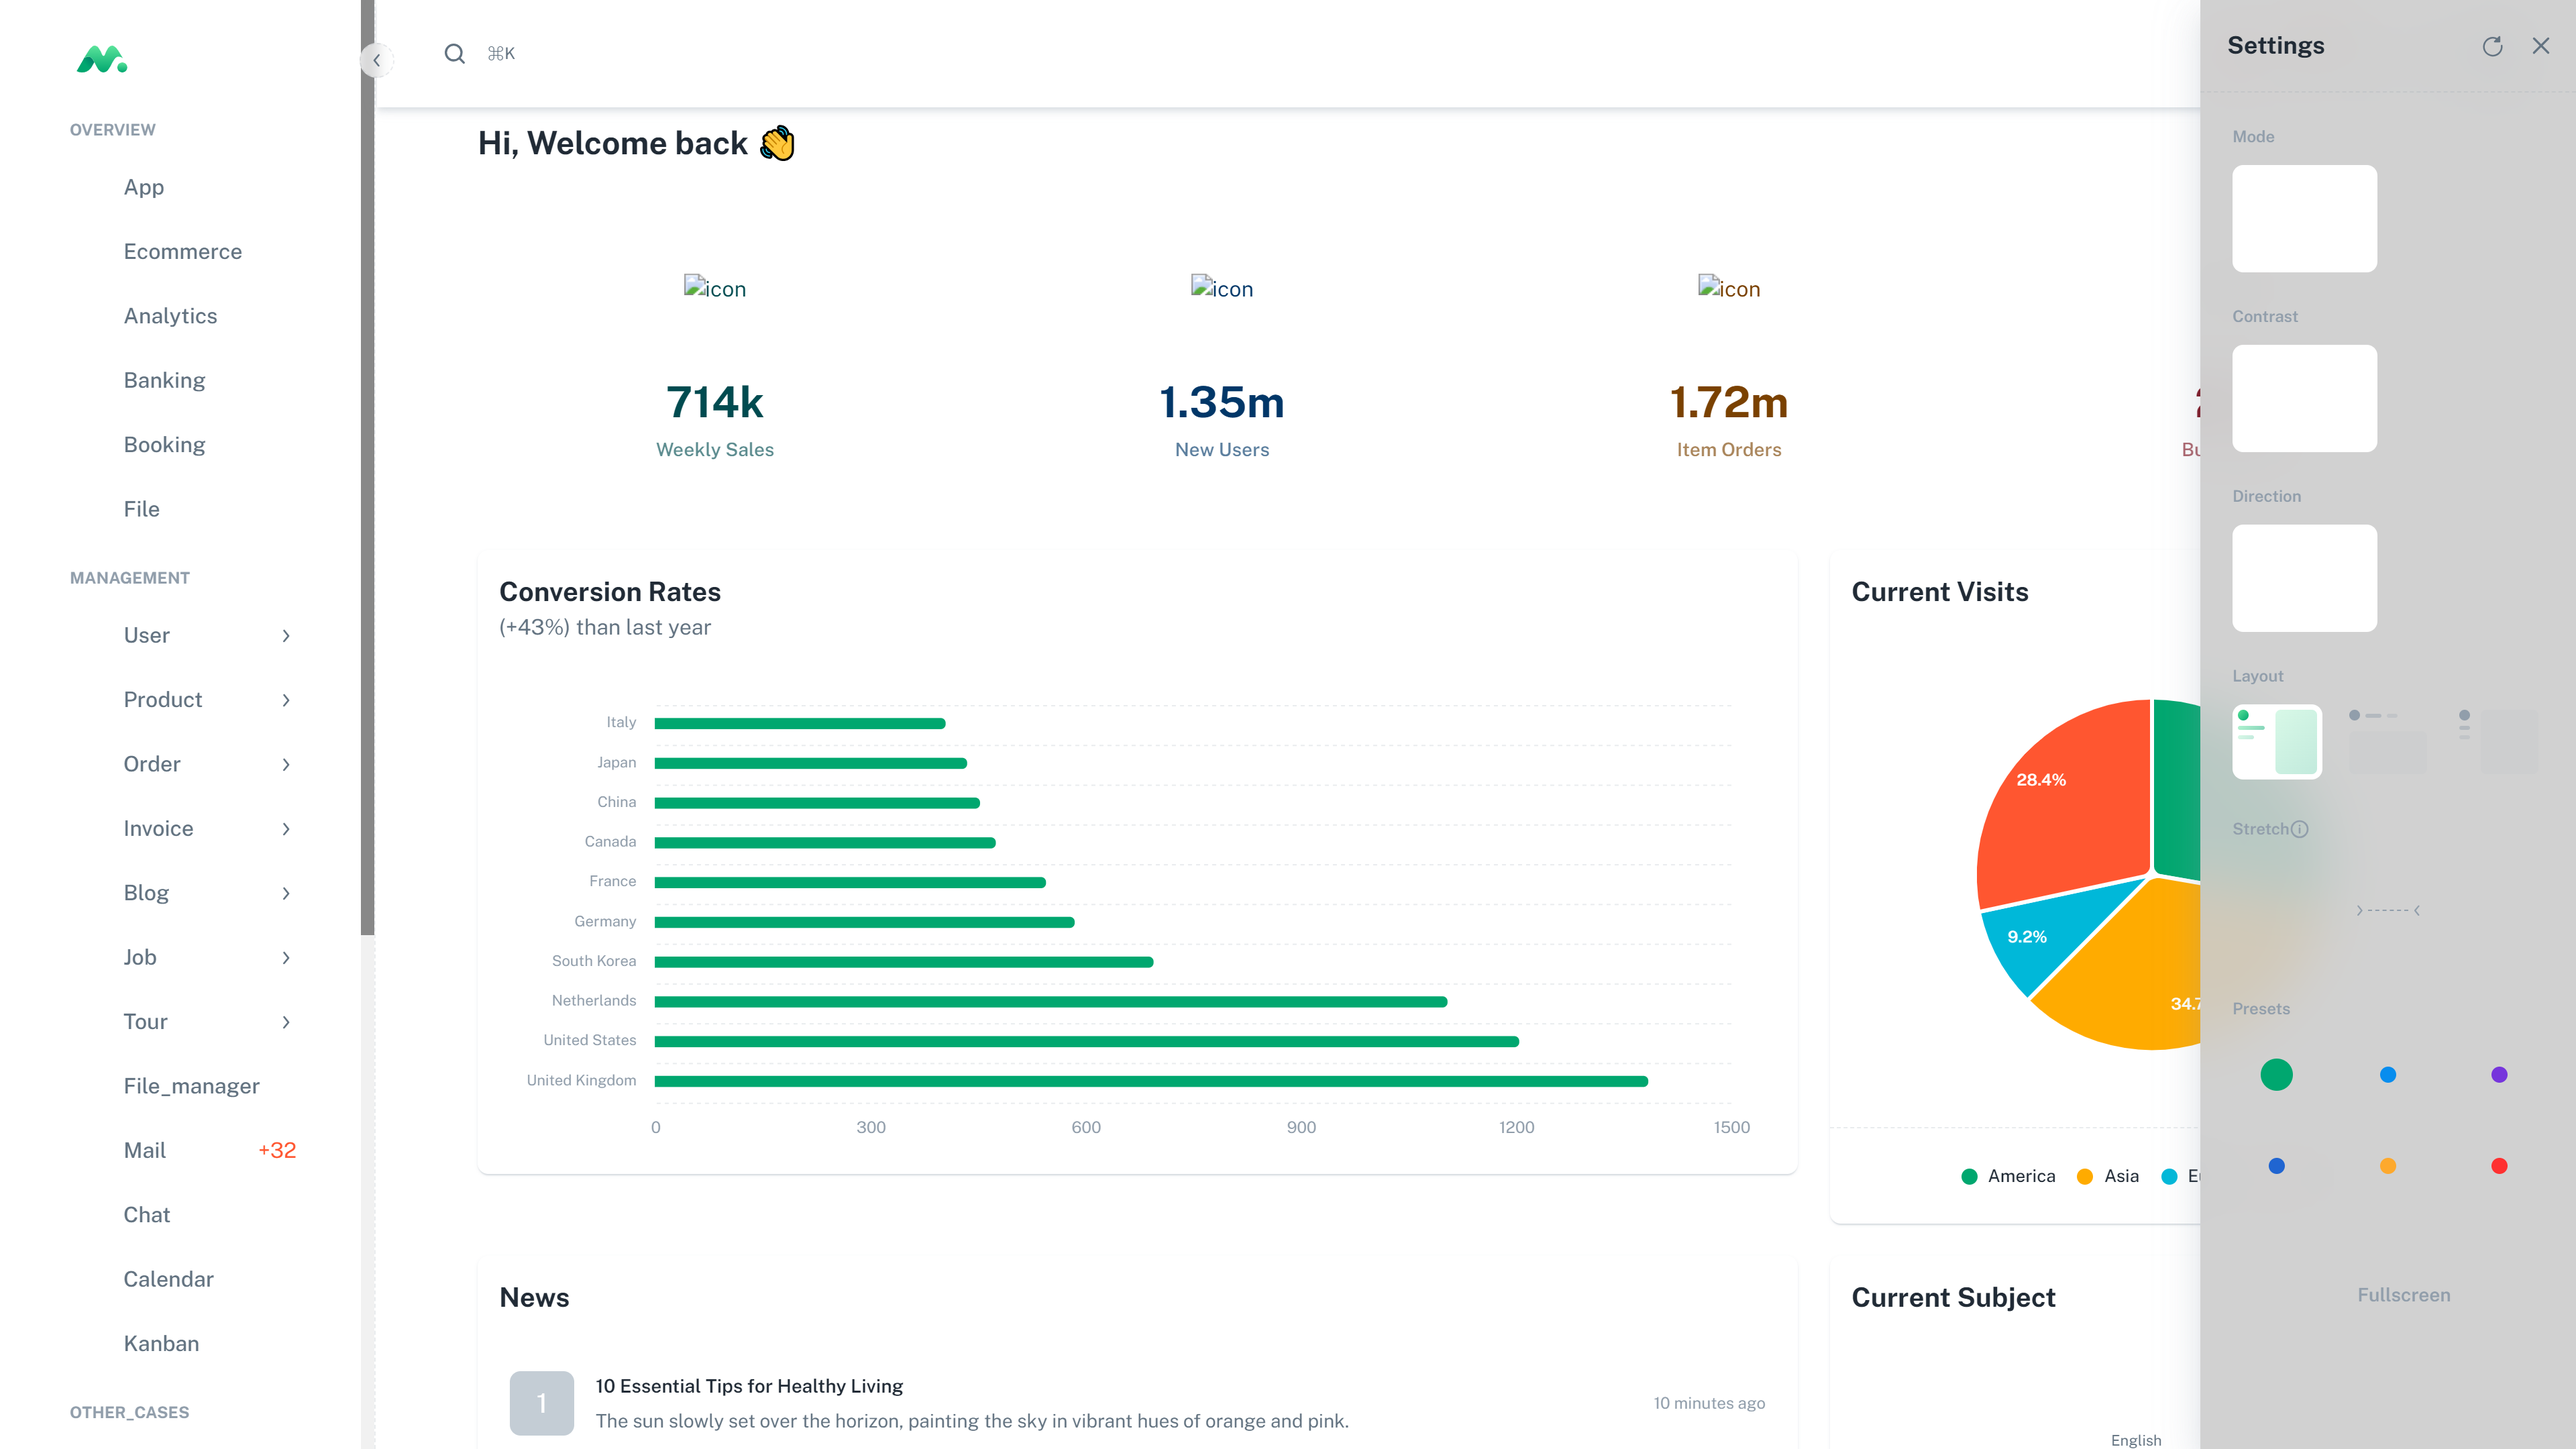
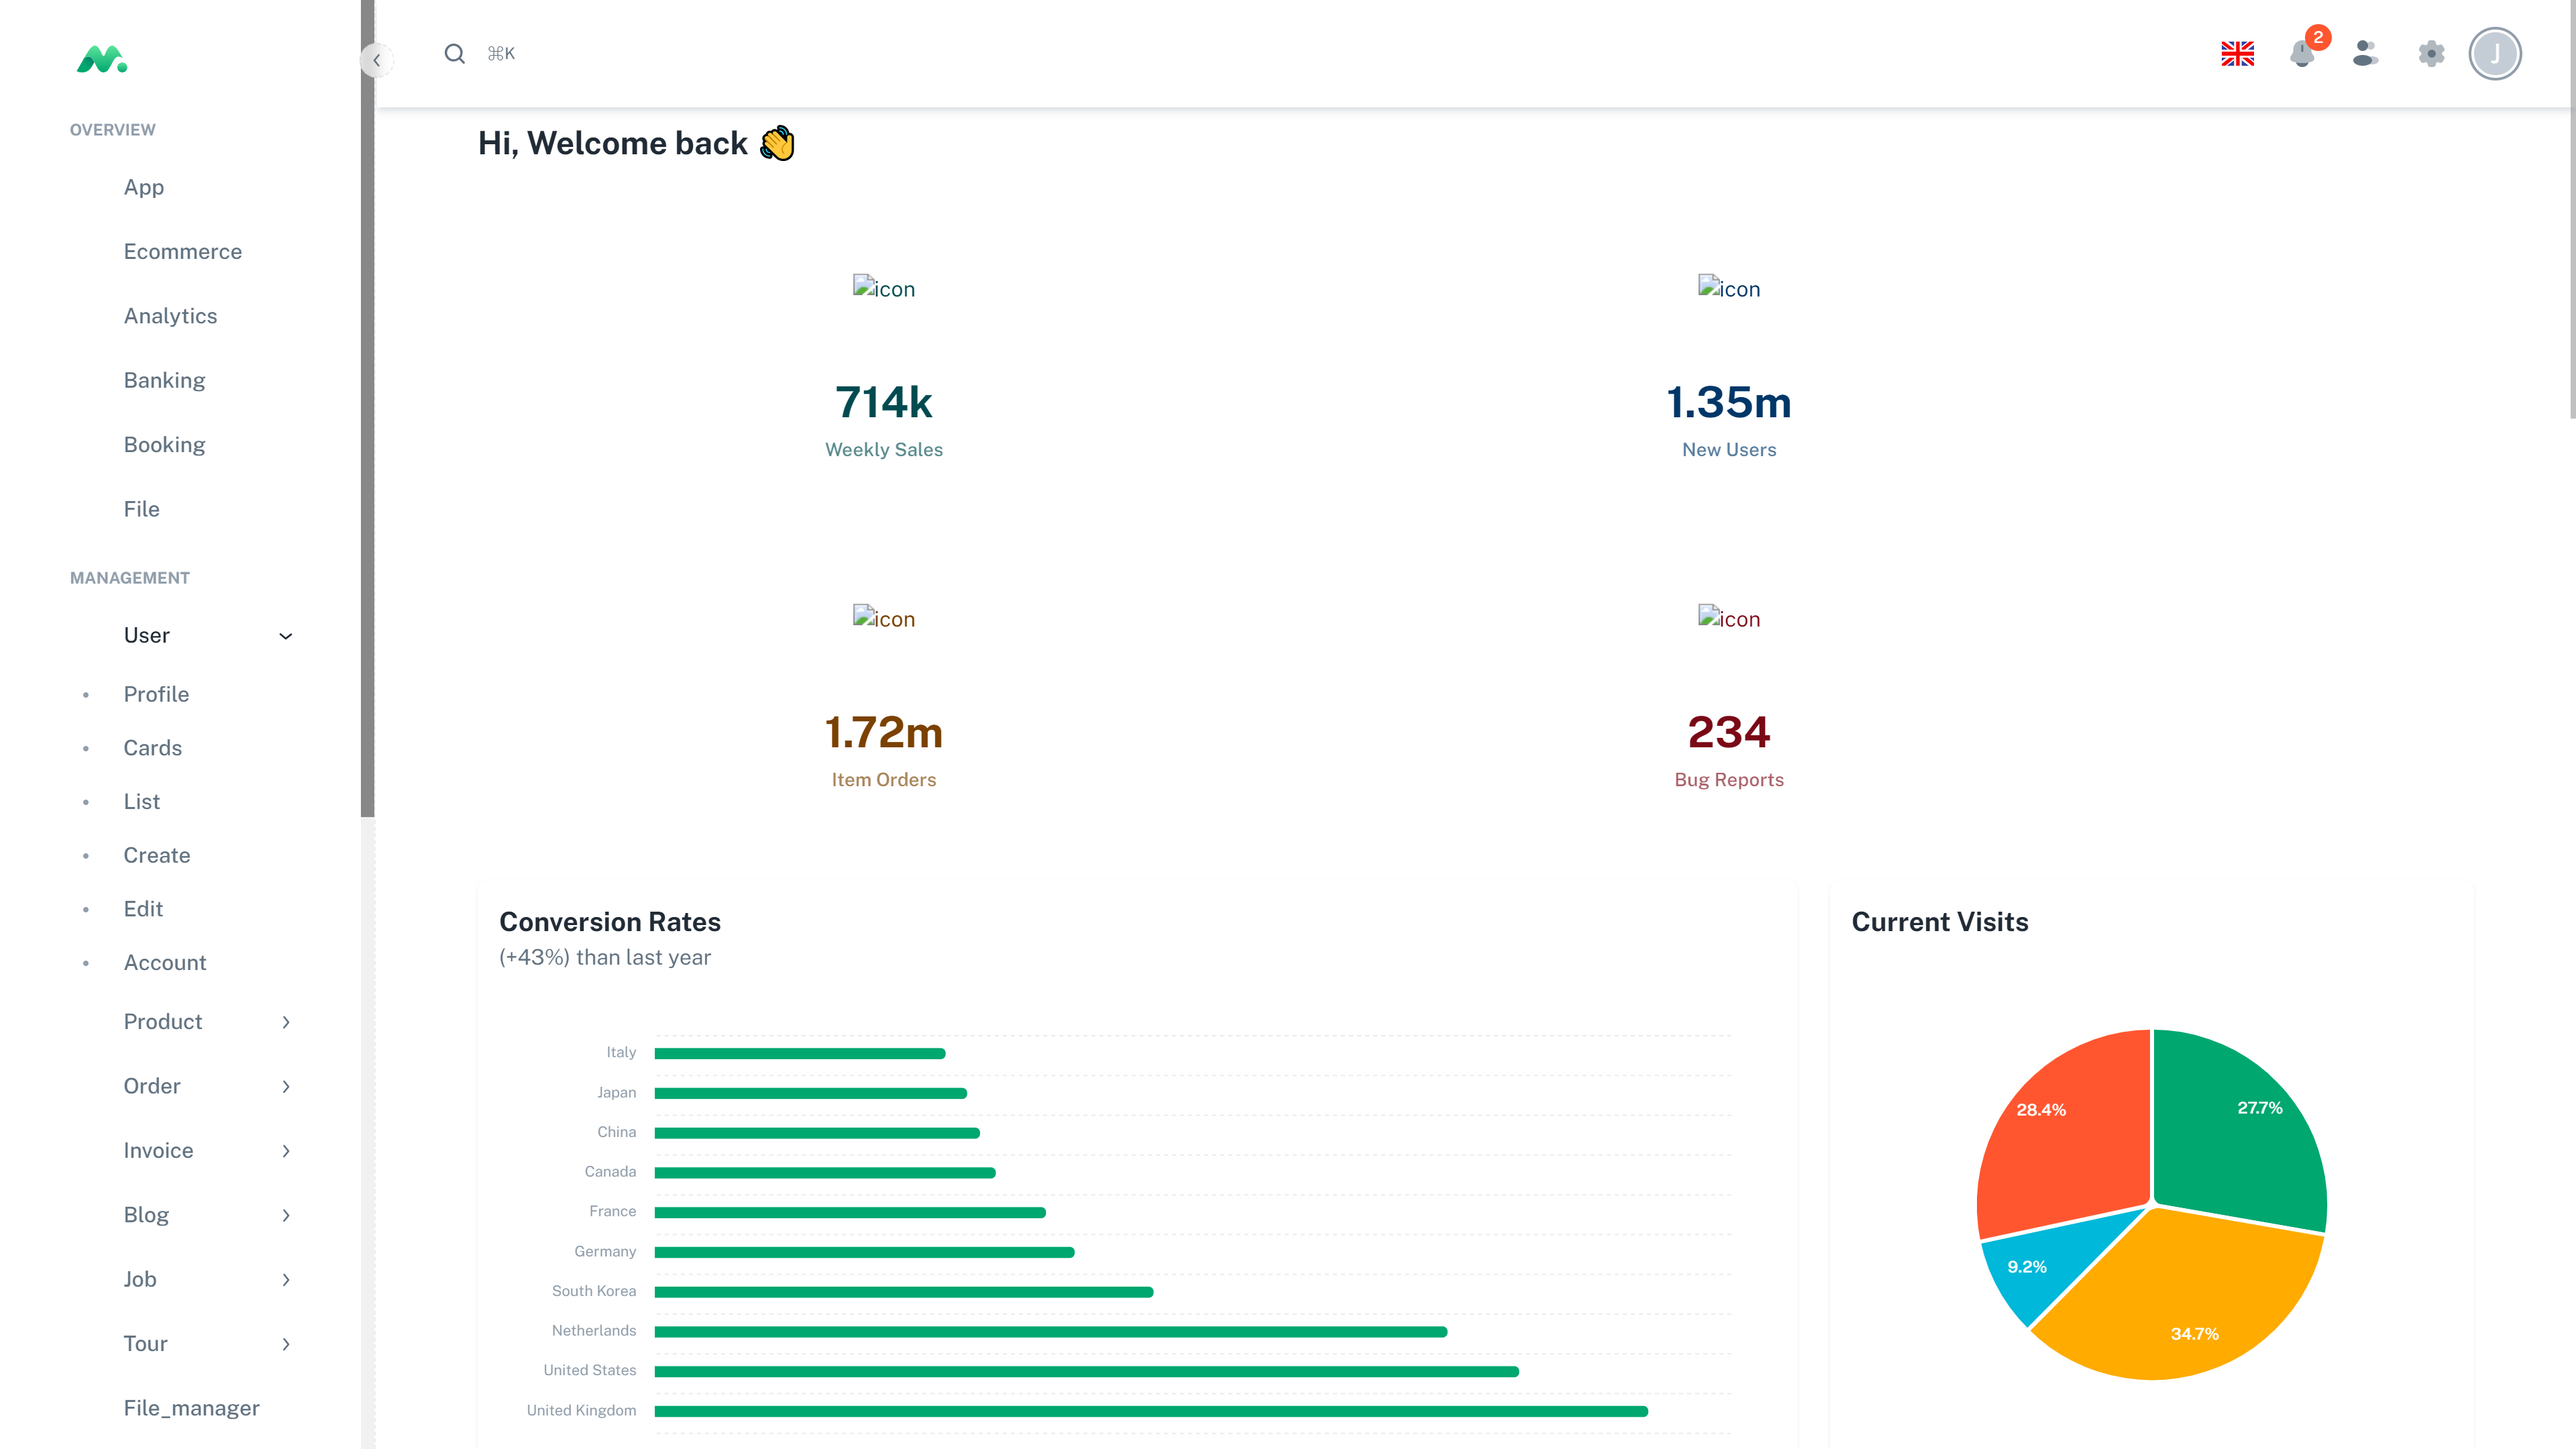
cr_12

diff --git a/src/pages/analytics/OverviewAnalyticsView.jsx b/src/pages/analytics/OverviewAnalyticsView.jsx
@@ -44,7 +44,7 @@ export default function OverviewAnalyticsView() {
       </Typography>
 
       <Grid container spacing={3}>
-        <Grid xs={12} sm={6} md={3}>
+        <Grid xs={12} sm={10} md={5}>
           <AnalyticsWidgetSummary
             title="Weekly Sales"
             total={714000}
@@ -52,7 +52,7 @@ export default function OverviewAnalyticsView() {
           />
         </Grid>
 
-        <Grid xs={12} sm={6} md={3}>
+        <Grid xs={12} sm={10} md={5}>
           <AnalyticsWidgetSummary
             title="New Users"
             total={1352831}
@@ -63,7 +63,7 @@ export default function OverviewAnalyticsView() {
           />
         </Grid>
 
-        <Grid xs={12} sm={6} md={3}>
+        <Grid xs={12} sm={10} md={5}>
           <AnalyticsWidgetSummary
             title="Item Orders"
             total={1723315}
@@ -72,7 +72,7 @@ export default function OverviewAnalyticsView() {
           />
         </Grid>
 
-        <Grid xs={12} sm={6} md={3}>
+        <Grid xs={12} sm={10} md={5}>
           <AnalyticsWidgetSummary
             title="Bug Reports"
             total={234}
@@ -84,7 +84,7 @@ export default function OverviewAnalyticsView() {
         </Grid>
 
 
-        <Grid xs={12} md={6} lg={8}>
+        <Grid xs={12} md={10} lg={8}>
           <AnalyticsConversionRates
             title="Conversion Rates"
             subheader="(+43%) than last year"
@@ -122,7 +122,7 @@ export default function OverviewAnalyticsView() {
         <Grid xs={12} md={6} lg={8}>
           <AnalyticsNews title="News" list={_analyticPosts} />
         </Grid>
-        <Grid xs={12} md={6} lg={4}>
+        <Grid xs={12} md={10} lg={10}>
           <AnalyticsCurrentSubject
             title="Current Subject"
             chart={{
@@ -143,7 +143,7 @@ export default function OverviewAnalyticsView() {
           />
         </Grid>
 
-        <Grid xs={12} md={6} lg={8}>
+        <Grid xs={12} md={10} lg={10}>
           <AnalyticsWebsiteVisits
             title="Website Visits"
             subheader="(+43%) than last year"
@@ -184,7 +184,7 @@ export default function OverviewAnalyticsView() {
             }}
           />
         </Grid>
-        <Grid xs={12} md={6} lg={4}>
+        <Grid xs={12} md={10} lg={10}>
           <AnalyticsOrderTimeline
             title="Order Timeline"
             list={_analyticOrderTimeline}
